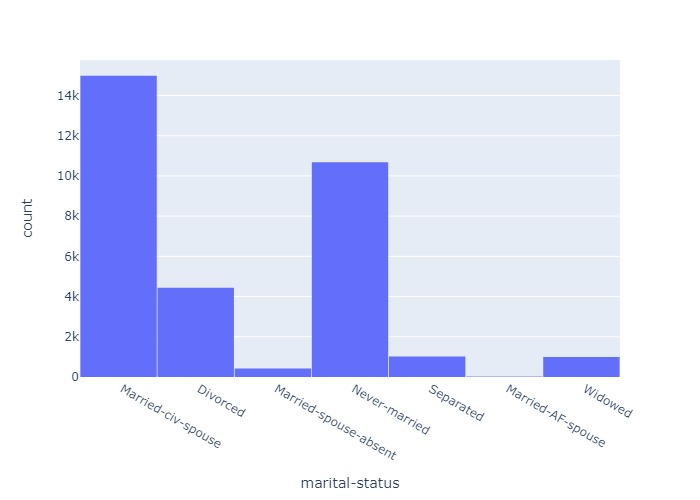
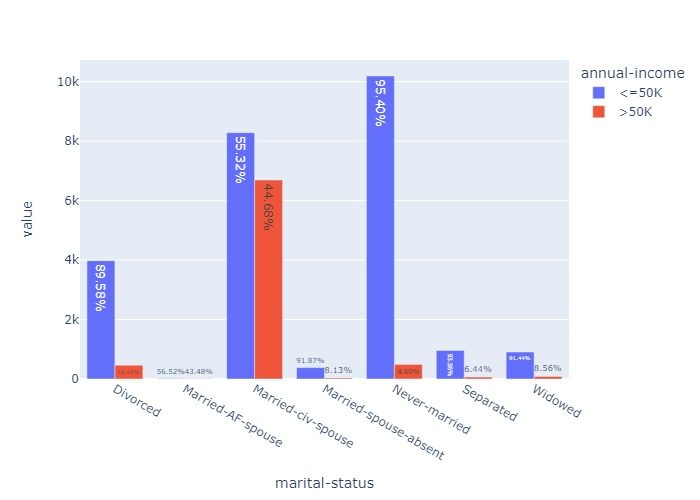
Plot histogram with percentages and correlation matrix

diff --git a/explore_data.py b/explore_data.py
@@ -20,11 +20,13 @@ df = load_data.df
 # =============================================
 print("Amount of NaN values")
 print(df.isna().sum())
+print(df.isna().sum().to_latex())
+
 
 # =============================================
 # Describe (statistcs) 
 # =============================================
-data_cols = ["age", "capital-gain", "capital-loss", "hours-per-week"]
+data_cols = ["age", "capital-gain", "capital-loss", "hours-per-week", "education-num"]
 # Take only data that are ratios or intevals 
 sdf = df[data_cols]
 print("Describe statistics")
@@ -39,8 +41,8 @@ print(sdf.describe().to_latex())
 # Male-female count
 # =============================================
 # Count males and females in dataset 
-male_count = len(df[df["sex"] == " Male"])
-female_count = len(df[df["sex"] == " Female"])
+male_count = len(df[df["sex"] == "Male"])
+female_count = len(df[df["sex"] == "Female"])
 
 print("Male count: " + str(male_count))
 print("Female count: " + str(female_count))
@@ -112,6 +114,8 @@ for label in ["capital-gain", "capital-loss", "hours-per-week"]:
 # =============================================
 # Create histograms
 # =============================================
+group_name = 'annual-income'
+
 columns = list(df.columns)
 
 nondata_columns = [x for x in columns if x not in data_cols]
@@ -119,25 +123,36 @@ nondata_columns = [x for x in columns if x not in data_cols]
 # Loop through labels and create histogram plot 
 for label in nondata_columns:
     print("Creating histogram for: " + label)
-    fig = px.histogram(df, x = label, color=label)
-    fig.update_layout(bargap = 0.01)
-    fig.write_image("plots/histogram_"+ label +".jpg")
 
+    # Group by annual income
+    df_group = df.groupby([label, group_name]).size().reset_index()
+    # Add a percentage column 
+    df_group['percentage'] = df.groupby([label, group_name]).size().groupby(level=0).apply(lambda x: 100 * x / float(x.sum())).values
+    # Set the colums in the new dataframe
+    df_group.columns = [label, group_name, 'Counts', 'Percentage']
+    # Make the barplot with calculated percentage 
+    fig = px.bar(df_group, x=label, y=['Counts'], barmode="group", color=group_name, text=df_group['Percentage'].apply(lambda x: '{0:1.2f}%'.format(x)))
+    # fig = px.histogram(df, x = label, color=label)
+    # fig.update_layout(bargap = 0.01)
+    fig.write_image("plots/histogram_"+ label +".jpg")
 
 
 # =============================================
 # Correlation matrix
 # =============================================
 # Define columns to include 
-cols = ["age", "capital-gain", "capital-loss", "hours-per-week"] 
+cols = ["age", "capital-gain", "capital-loss", "hours-per-week", "education-num"] 
 x= df[cols]
 
 # Calculate correlation matrix 
 corr = x.corr()
 
 # Plot correlation matrix 
-sns.heatmap(corr, 
+sns_heatmap = sns.heatmap(corr, 
             xticklabels=corr.columns.values,
             yticklabels=corr.columns.values,
-            annot=True)
+            annot=True, cmap="Blues")
 
+fig = sns_heatmap.get_figure()
+
+fig.savefig("plots/correlation_matrix.jpg", bbox_inches='tight')
